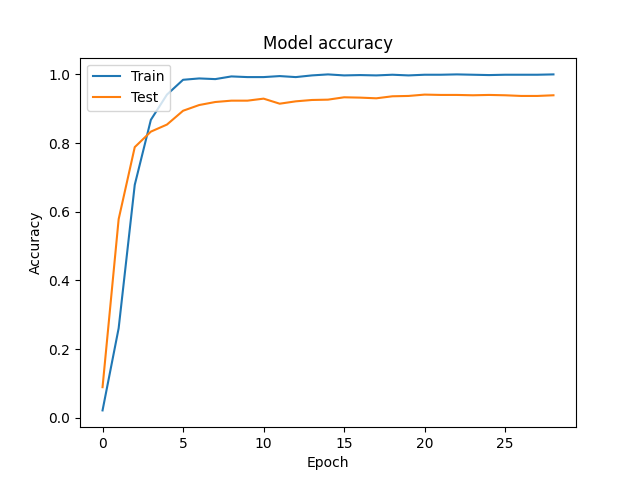
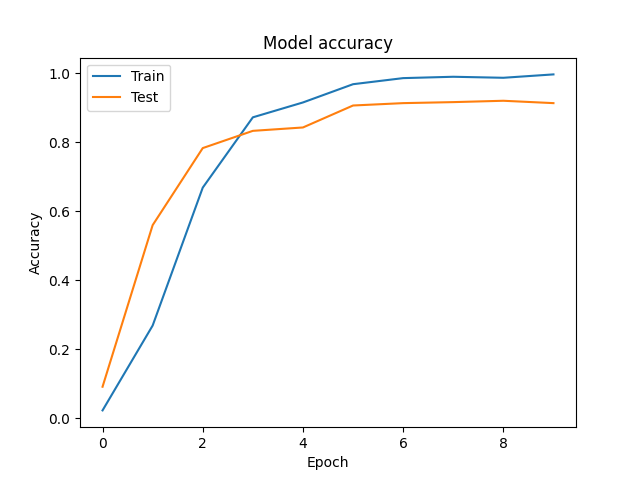
wip

diff --git a/trainer.py b/trainer.py
@@ -141,7 +141,7 @@ if __name__ == '__main__':
                                   steps_per_epoch=step_size_train,
                                   validation_data=validation_preprocessed,
                                   validation_steps=step_size_valid,
-                                  callbacks=[clr, mcp_save_acc, mcp_save_loss, es],
+                                  callbacks=[clr]#, mcp_save_acc, mcp_save_loss, es],
                                   #workers=64,
                                   #use_multiprocessing=False,
                                   #max_queue_size=32
